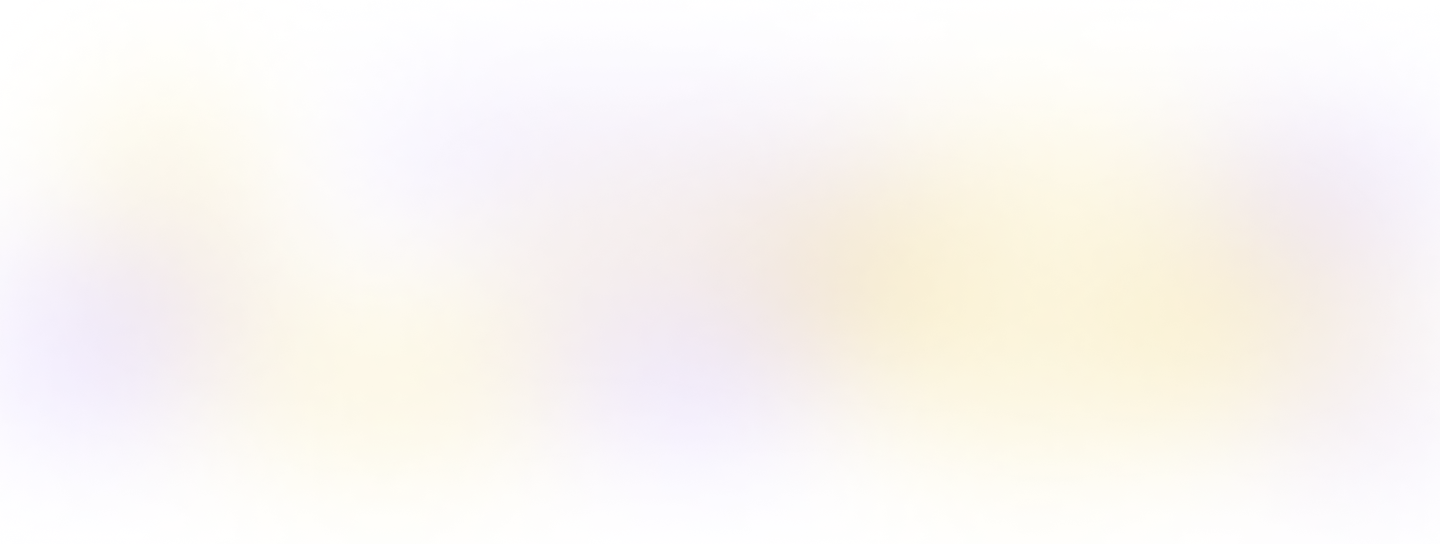
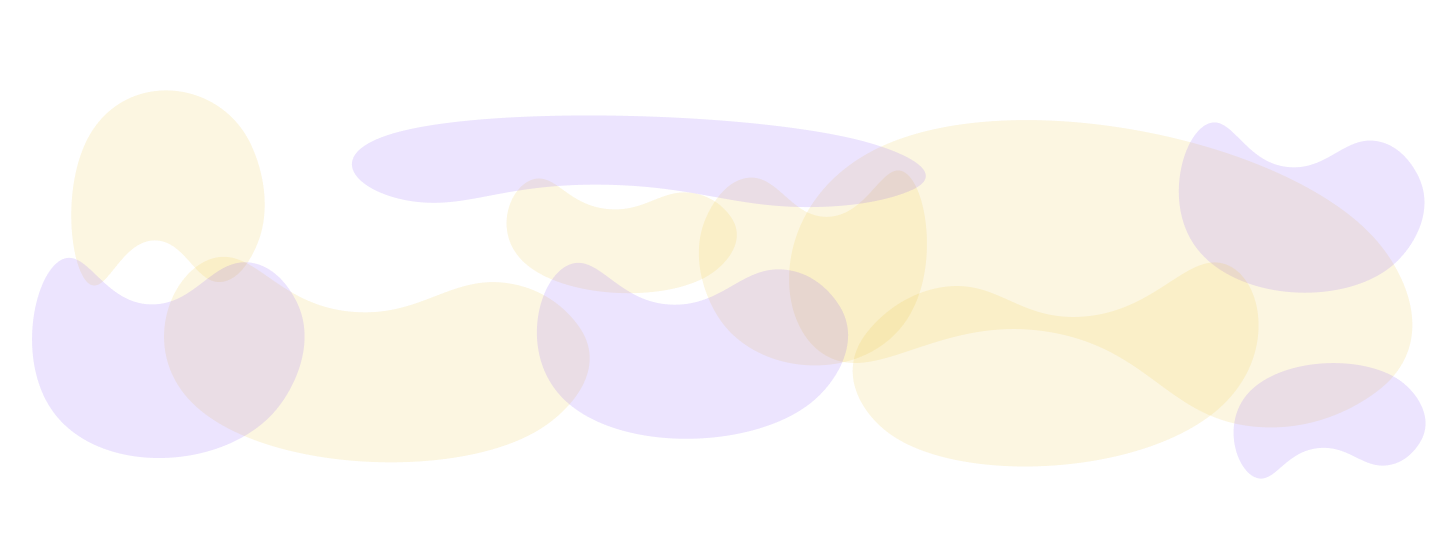
HeroSection
added hero section and styles

diff --git a/src/components/Hero/styles.ts b/src/components/Hero/styles.ts
@@ -1,0 +1,111 @@
+import styled from "styled-components";
+ 
+import img from '../../assets/BackgroundBlur.png'; 
+export const Container = styled.div`
+  width: 100%;
+  padding: 6rem 0rem;
+  display: flex;
+  flex-direction: row; 
+  justify-content: space-between; 
+  position: relative;
+  
+  &:before {
+    content: '';
+    background: url(${img});
+    background-size: contain;
+    background-repeat: no-repeat;
+    background-position: center;
+    width: 60vw;
+    height: 100%;
+    top: 0;
+    position: absolute;
+    -webkit-filter: blur(38px);
+    -webkit-filter: blur(38px);
+    filter: blur(38px);
+    right: 0;
+    left: 0;
+    bottom: 0;
+    opacity: 0.8;
+   
+  }
+ 
+  @media only screen and (max-width: 768px) {
+    flex-direction: column;
+
+    align-items: center;
+    justify-content: center; 
+    gap: 3rem;
+  }
+  `
+ 
+export const Title = styled.div`
+ font-family: 'Baloo 2';
+font-style: normal;
+font-weight: 800;
+font-size: 3rem;
+color: ${({ theme }) => theme.baseTitle};
+line-height: 130%;
+`
+ 
+export const Infos = styled.div`
+display: flex;
+flex-direction: column;
+align-items: flex-start;
+padding: 0px;
+gap: 16px;
+width: 100%;
+max-width: 588px;
+
+position: relative;
+`
+
+export const Description = styled.div`
+  font-style: normal;
+font-weight: 400;
+font-size: 1.25rem;
+line-height: 130%; 
+color: ${({ theme }) => theme.baseSubtitle};
+  `
+ export const GoodList = styled.div`
+ display: grid;
+ grid-template-columns: repeat(2, 1fr);
+ gap: 1.25rem 0.2rem;
+ margin-top: 4rem;
+ `
+ 
+export const ListItem = styled.div`
+display: flex;
+flex-direction: row; 
+align-items: center;
+gap: 0.5rem;
+color: ${({ theme }) => theme.baseText};
+ 
+ 
+`
+export const Icon = styled.div` 
+ 
+  background: ${(props) => props.color ? props.theme[props.color] : 'gray'};
+  display: flex;
+  flex-direction: row;
+  justify-content: center;
+  align-items: center;
+  padding: 8px;
+  gap: 8px;
+  width: 32px;
+  height: 32px;
+  color: white; 
+  border-radius: 1000px; 
+ 
+ `
+
+export const HeroImage = styled.div`
+
+position: relative;
+ @media only screen and (max-width: 768px) {
+    flex-direction: column;
+
+    align-items: center;
+    justify-content: center;  
+  }
+
+`

diff --git a/src/components/Hero/index.tsx b/src/components/Hero/index.tsx
@@ -1,0 +1,50 @@
+import { Package, Timer, Coffee, ShoppingCart } from 'phosphor-react';
+import HeroImage from '../../assets/heroimage.png'
+import * as S from  './styles'; 
+import { defaultTheme } from '../../styles/themes/default';
+
+export const Hero = () => { 
+   
+return (
+    <S.Container> 
+         <S.Infos>
+            <S.Title>
+            Encontre o café perfeito para qualquer hora do dia
+            </S.Title>
+            <S.Description>
+            Com o Coffee Delivery você recebe seu café onde estiver, a qualquer hora
+            </S.Description>
+            <S.GoodList>
+            <S.ListItem>
+              <S.Icon color={'yellowDark'}>  
+              <ShoppingCart  size={22} weight="fill"/> 
+              </S.Icon> 
+              Compra simples e segura
+                </S.ListItem>
+                <S.ListItem>
+                <S.Icon color={'baseText'}> 
+                <Package size={22}  weight="fill" /> 
+                </S.Icon>
+                Embalagem mantém o café intacto
+                </S.ListItem>
+                <S.ListItem>
+                <S.Icon color={'yellow'}>
+                <Timer   size={22}  weight="fill" />
+                </S.Icon>
+                  Entrega rápida e rastreada
+                </S.ListItem>
+                <S.ListItem>
+                <S.Icon color={'purple'}>
+                <Coffee  size={22}  weight="fill" />   
+                    </S.Icon>
+                     O café chega fresquinho até você
+                </S.ListItem>
+            </S.GoodList>
+         </S.Infos>
+         <S.HeroImage>
+            <img src={HeroImage}/>
+         </S.HeroImage>
+    </S.Container>
+)
+
+};

diff --git a/src/components/Header/styles.ts b/src/components/Header/styles.ts
@@ -1,0 +1,52 @@
+import styled from "styled-components";
+
+export const Container = styled.div`
+  width: 100%;
+  padding: 2rem 0rem;
+  display: flex;
+  flex-direction: row;
+  align-items: center;    
+  justify-content: space-between; 
+  `
+
+export const City = styled.div`
+ 
+display: flex;
+flex-direction: row;
+align-items: center;    
+justify-content: space-between; 
+padding: 0.375rem;
+gap: 0.5rem;
+border-radius: 0.375rem;
+background-color: ${({ theme }) => theme.purpleLight};
+color: ${({ theme }) => theme.purpleDark};
+
+svg {
+    color: ${({ theme }) => theme.purple};
+
+}
+`
+
+export const Cart = styled.div`
+ display: flex;
+flex-direction: row;
+align-items: center;    
+justify-content: center;
+padding: 0.5rem;
+border-radius: 0.375rem;
+background-color: ${({ theme }) => theme.yellowLight};
+color: ${({ theme }) => theme.yellowDark};
+
+
+svg {
+    color: ${({ theme }) => theme.yellowDark}; 
+}
+  
+  `
+  export const Account = styled.div`
+ 
+  display: flex;
+  flex-direction: row;
+  align-items: center;    
+  gap: 1rem;
+  `

diff --git a/src/styles/themes/default.ts b/src/styles/themes/default.ts
@@ -1,20 +1,20 @@
  
 export const defaultTheme = { 
-    yellowDark: "#C47F17",
-    yellow: "#DBAC2C",
-    yellowLight: "#F1E9C9",
-    purpleDark: "#4B2995",
-    purple: "#8047F8",
-    purpleLight: "#EBE5F9",
-    baseTitle: "#272221",
-    abseSubtitle: "#403937",
-    baseText: "#574F4D",
-    baseLabel: "#8D8686",
-    baseHover: "#D7D5D5",
-    baseButton: "#E6E5E5",
-    baseInput: "#EDEDED",
-    basecard: "#F3F2F2",
-    background: "#FAFAFA",	
-    white: "#FFFFFF",
-    danger: "#E25858",
+    'yellowDark': "#C47F17",
+    'yellow': "#DBAC2C",
+    'yellowLight': "#F1E9C9",
+    'purpleDark': "#4B2995",
+    'purple': "#8047F8",
+    'purpleLight': "#EBE5F9",
+    'baseTitle': "#272221",
+    'baseSubtitle': "#403937",
+    'baseText': "#574F4D",
+    'baseLabel': "#8D8686",
+    'baseHover': "#D7D5D5",
+    'baseButton': "#E6E5E5",
+    'baseInput': "#EDEDED",
+    'basecard': "#F3F2F2",
+    'background': "#FAFAFA",	
+    'white': "#FFFFFF",
+    'danger': "#E25858",
 }

diff --git a/src/components/Header/index.tsx b/src/components/Header/index.tsx
@@ -1,0 +1,16 @@
+import { MapPin, ShoppingCart } from 'phosphor-react';
+import Logo from '../../assets/Logo.png' 
+import * as S from  './styles';
+
+export const Header = () => { 
+return (
+    <S.Container>
+        <img src={Logo} alt="logo" /> 
+        <S.Account>
+            <S.City><MapPin  size={22} weight="fill"  /> Porto Alegre, RS</S.City>
+            <S.Cart><ShoppingCart size={22}  weight="fill" /> </S.Cart>
+        </S.Account>
+    </S.Container>
+)
+
+};

diff --git a/src/components/LayoutComponent/index.tsx b/src/components/LayoutComponent/index.tsx
@@ -1,14 +1,16 @@
+import { Header } from "../Header";
+import * as S from  './styles';
+
 type LayoutPropsType = {
     children: React.ReactNode;
-
 }
 
 export const LayoutComponent = ({children}: LayoutPropsType) => { 
-return (
-    <div>
-        <div>Header</div>
+return ( 
+    <S.Container>
+        <Header/>
         {children}
-    </div>
+    </S.Container>
 )
 
 };

diff --git a/src/components/LayoutComponent/styles.ts b/src/components/LayoutComponent/styles.ts
@@ -1,0 +1,12 @@
+import styled from "styled-components";
+
+export const Container = styled.div`
+ 
+  display: flex;
+  flex-direction: column;
+  align-items: center;     
+  max-width: 1120px;
+  width: 100%;
+    margin: 0px auto;
+  `
+ 

diff --git a/src/pages/home/index.tsx b/src/pages/home/index.tsx
@@ -1,6 +1,10 @@
+import { Hero } from "../../components/Hero"
 
 
 export const Home = () => {
 
-    return <div>hHOME</div>
+    return (<>
+    <Hero/>
+    
+    </>)
 }
